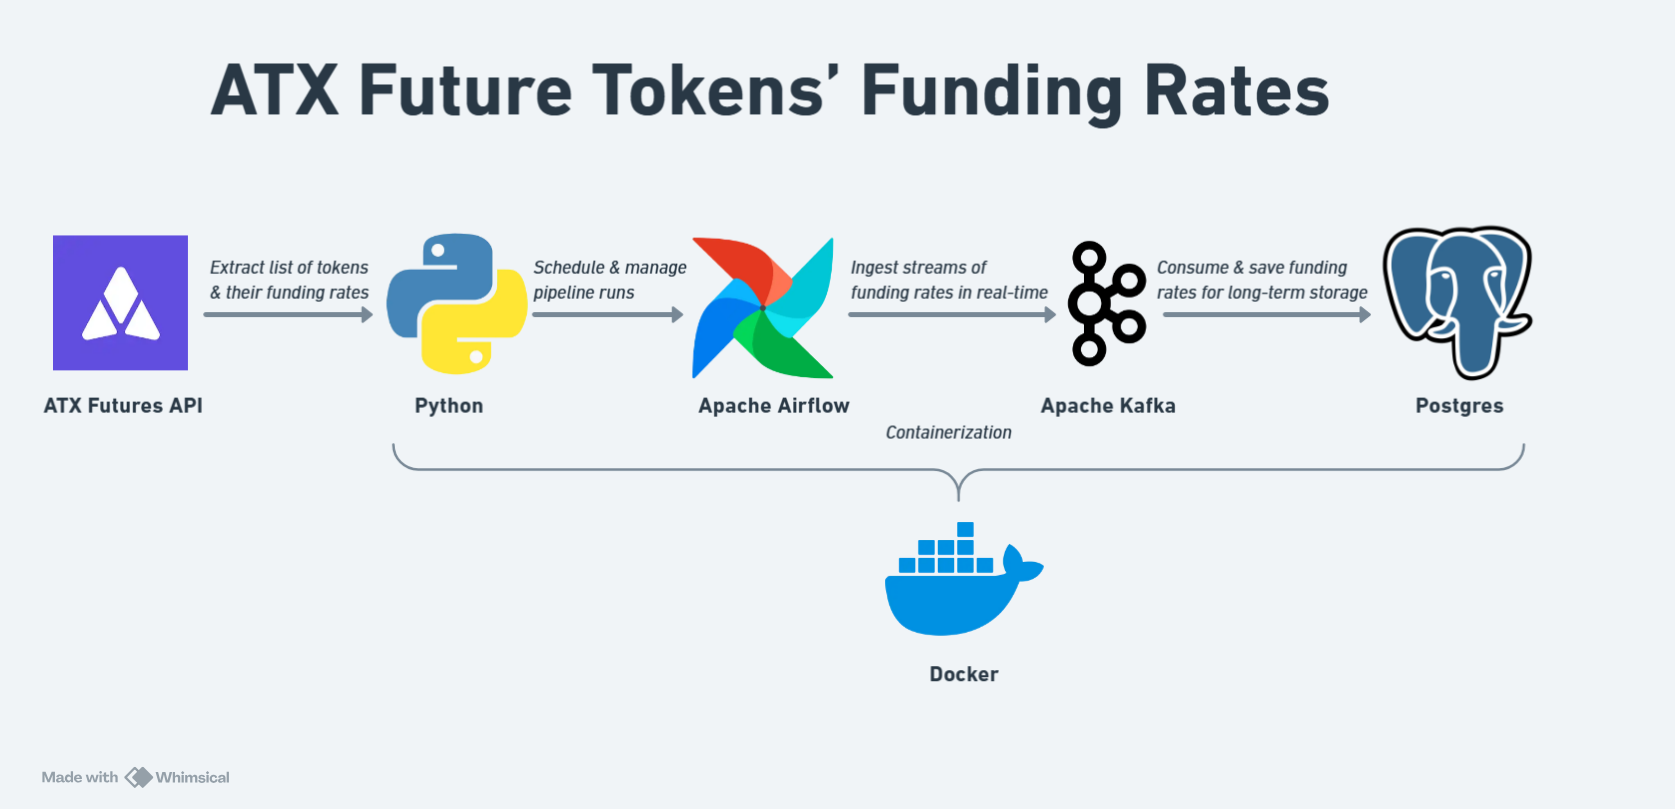
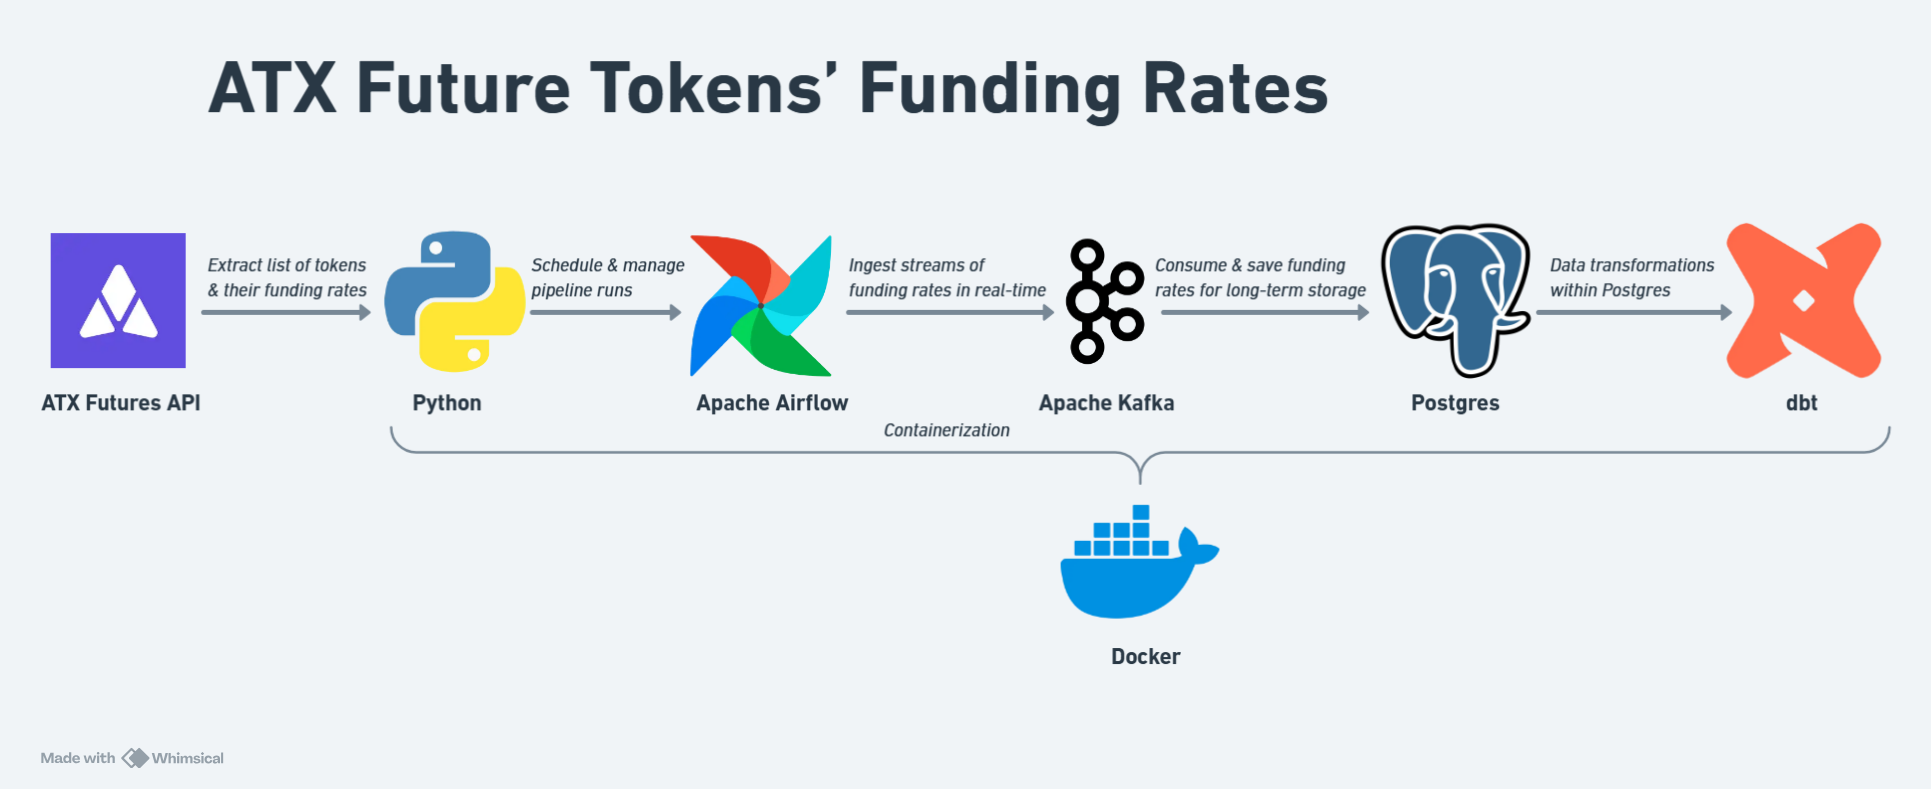
1st working version of dbt

diff --git a/dags/kafka_stream.py b/dags/kafka_stream.py
@@ -14,7 +14,7 @@ def _fetch_one_funding_rate(row):
     asset_code = row["assetCode"]
     api_url = (
         f"https://api.atxs.io/api/v1/futures/mark_price"
-        f"?baseAssetId={asset_id}&quoteAssetId=617"
+        f"?baseAssetId={asset_id}&quoteAssetId=20"
     )
     fallback = {
         "baseAssetId": asset_id,
@@ -51,7 +51,7 @@ def get_funding_rates():
     from concurrent.futures import ThreadPoolExecutor, as_completed
 
     # Step 1: Get the list of current futures listed tokens
-    config_url = "https://api.atxs.io/api/v1/futures/config"
+    config_url = "https://api.atxs.io/api/v1/futures/config?isGetFullPair=true"
     try:
         cfg_resp = requests.get(config_url, timeout=10)
     except Exception:
@@ -79,8 +79,8 @@ def get_funding_rates():
     futures_listed_tokens.sort(key=lambda x: x["assetCode"])
 
     # Step 2: Fetch funding rates in parallel, one batch at a time
-    BATCH_SIZE = 10
-    BATCH_DELAY = 10 
+    BATCH_SIZE = 60
+    BATCH_DELAY = 90 
     
     # seconds between batches (to avoid rate limiting)
     # there's only 7 assets left at the moment, so these 2 configs don't do anything.
@@ -93,14 +93,20 @@ def get_funding_rates():
     with ThreadPoolExecutor(max_workers=BATCH_SIZE) as executor:
         for batch_idx, batch in enumerate(batches):
             batch_futures = {executor.submit(_fetch_one_funding_rate, row): row for row in batch}
+            batch_ok = 0
+            batch_err = 0
             for fut in as_completed(batch_futures):
                 record = fut.result()
                 if record.get("fundingRate") is not None:
                     ok_count += 1
+                    batch_ok += 1
+                else:
+                    batch_err += 1
                 yield record
 
+            print(f"Batch {batch_idx + 1}/{len(batches)}: {batch_ok} success, {batch_err} failed.")
             if batch_idx < len(batches) - 1:
-                print(f"Batch {batch_idx + 1}/{len(batches)} done. Waiting {BATCH_DELAY}s before next batch...")
+                print(f"Waiting {BATCH_DELAY}s before next batch...")
                 time.sleep(BATCH_DELAY)
 
     print(f"Completed. Successfully retrieved funding rates for {ok_count} out of {n} assets")
@@ -112,6 +118,7 @@ def stream_data():
 
     producer = KafkaProducer(
         bootstrap_servers=['broker:29092']
+        # bootstrap_servers=['localhost:9092'] -- For local testing without Airflow
     )
     try:
         for record in get_funding_rates():
@@ -124,13 +131,14 @@ def stream_data():
     finally:
         producer.close()
 
+# For local testing without Airflow.
 # if __name__ == '__main__':
 #     stream_data()
 
 with DAG(
     'funding_rates_automation',
     default_args=default_args,
-    schedule=timedelta(minutes=1),
+    schedule=timedelta(minutes=15),
     catchup=False,
 ) as dag:
 

diff --git a/README.md b/README.md
@@ -30,7 +30,7 @@ Tôi làm project này vừa để ôn lại skill, vừa để lưu giữ nhữ
 
 ## 3. Setup & Run Locally
 
-* Cài đặt [Docker Desktop](https://docs.docker.com/desktop/setup/install/windows-install/)
+* Cài đặt và chạy [Docker Desktop](https://docs.docker.com/desktop/setup/install/windows-install/)
 
 * Clone repo về máy:
 
@@ -53,8 +53,8 @@ pip install -r requirements.txt
 docker-compose up -d --build
 ```
 
-> Lần đầu chạy sẽ mất vài phút để build images ([Dockerfile.airflow](Dockerfile.airflow), [consumers/Dockerfile](consumers/Dockerfile)) và pull các images còn lại. Các service khởi động theo thứ tự:
-> `Zookeeper` → `Kafka Broker` → `Schema Registry` + `Control Center` → `Postgres` → `Airflow Webserver` → `Airflow Scheduler` → `Kafka Consumer`
+> Lần đầu chạy sẽ mất vài phút để build images ([dags/Dockerfile](dags/Dockerfile), [consumers/Dockerfile](consumers/Dockerfile), [dbt/Dockerfile](dbt/Dockerfile)) và pull các images còn lại. Các service khởi động theo thứ tự:
+> `Zookeeper` → `Kafka Broker` → `Schema Registry` + `Control Center` → `Postgres` → `Airflow Webserver` → `Airflow Scheduler` → `Kafka Consumer` → `dbt`
 
 * Kiểm tra tất cả services đã healthy:
 
@@ -80,6 +80,26 @@ docker-compose ps
 ```bash
 docker exec -it postgres_data psql -U trading -d trading -c "SELECT * FROM funding_rates ORDER BY ingested_at DESC LIMIT 20;"
 ```
+
+* Service `dbt` sẽ tự động chạy **[mỗi 60 giây](docker-compose.yml#L222)**, transform data từ bảng `funding_rates` thành bảng mart `fct_funding_rates`.
+
+  | Model | Materialization | Mô tả |
+  |---|---|---|
+  | `stg_funding_rates` | view | Lọc rows `funding_rate IS NULL`, convert `event_time` (ms) → `event_at` (timestamptz) |
+  | `fct_funding_rates` | table | Thêm `funding_rate_category` theo ngưỡng `-0.3/-0.8/-1.2/-2`, thêm cờ `is_attractive` |
+
+  Kiểm tra bảng mart:
+
+  ```bash
+  docker exec -it postgres_data psql -U trading -d trading -c "SELECT base_asset, funding_rate, funding_rate_category, is_attractive FROM fct_funding_rates ORDER BY funding_rate ASC;"
+  ```
+
+  Chạy dbt thủ công (debug, test):
+
+  ```bash
+  docker-compose run --rm dbt dbt run
+  docker-compose run --rm dbt dbt test
+  ```
 
 * (Optional) Dừng toàn bộ services sau khi dùng xong:
 
